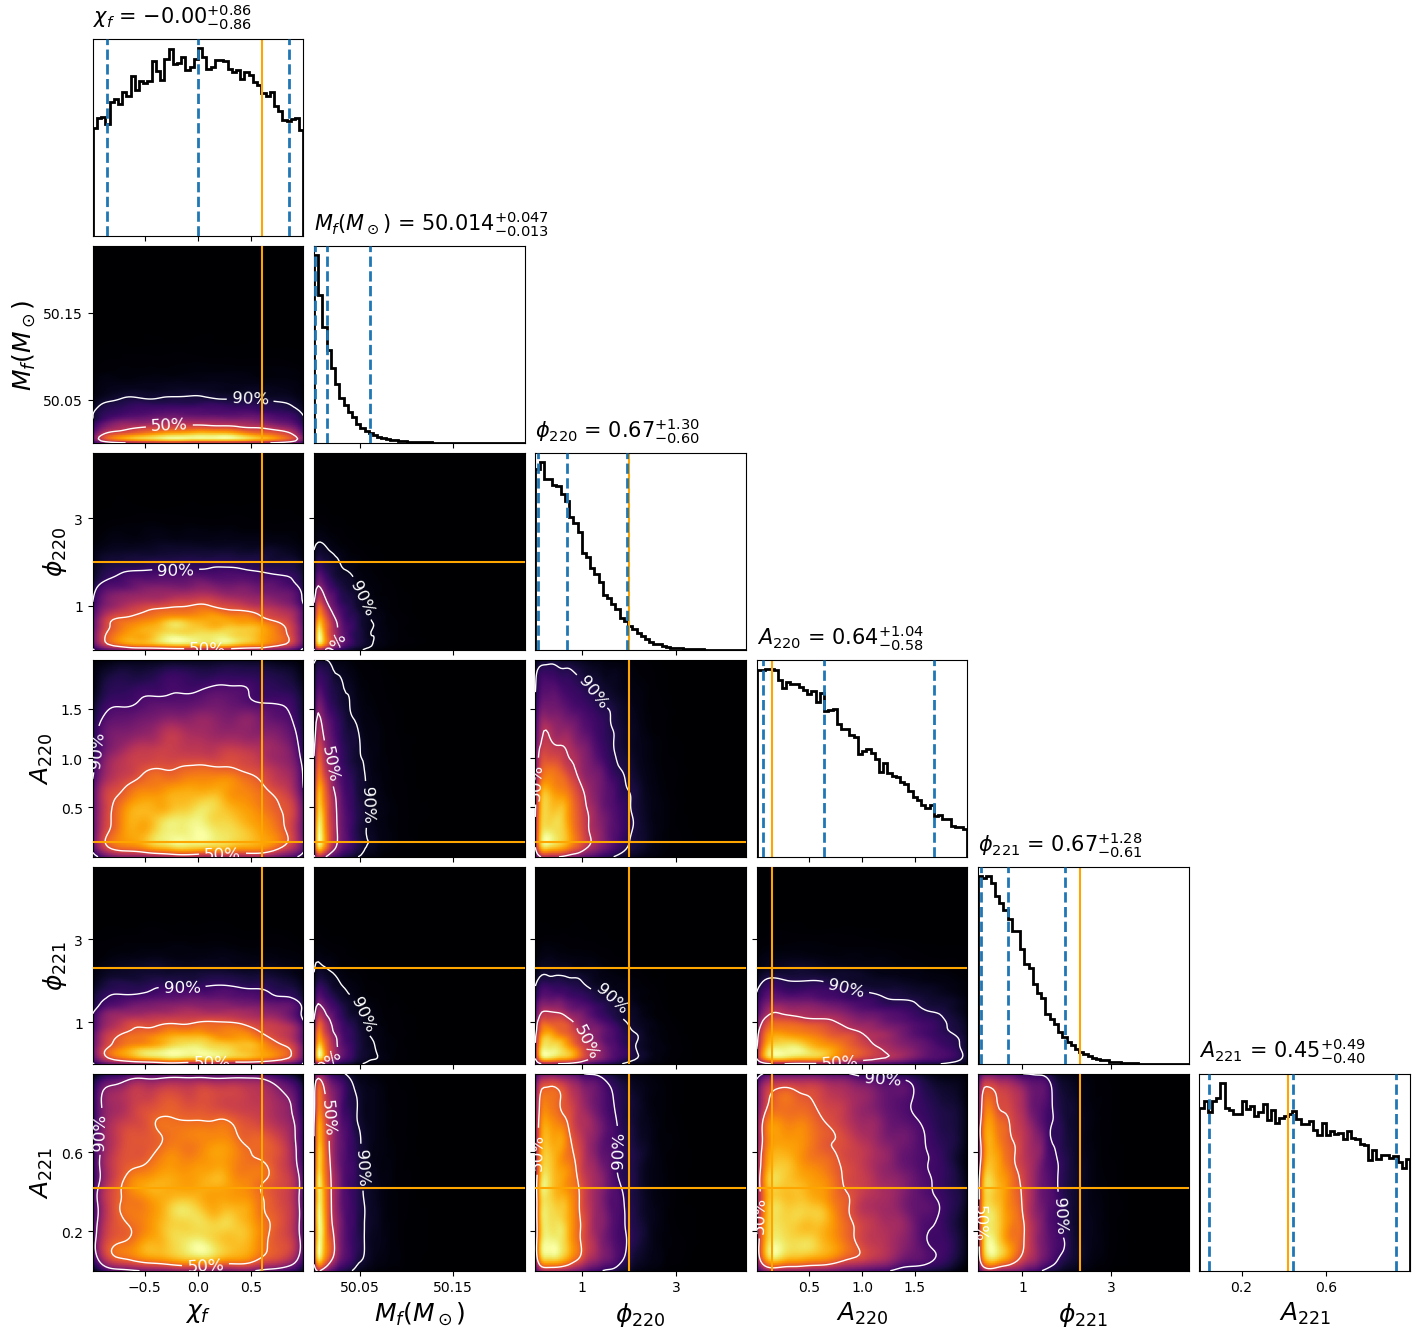
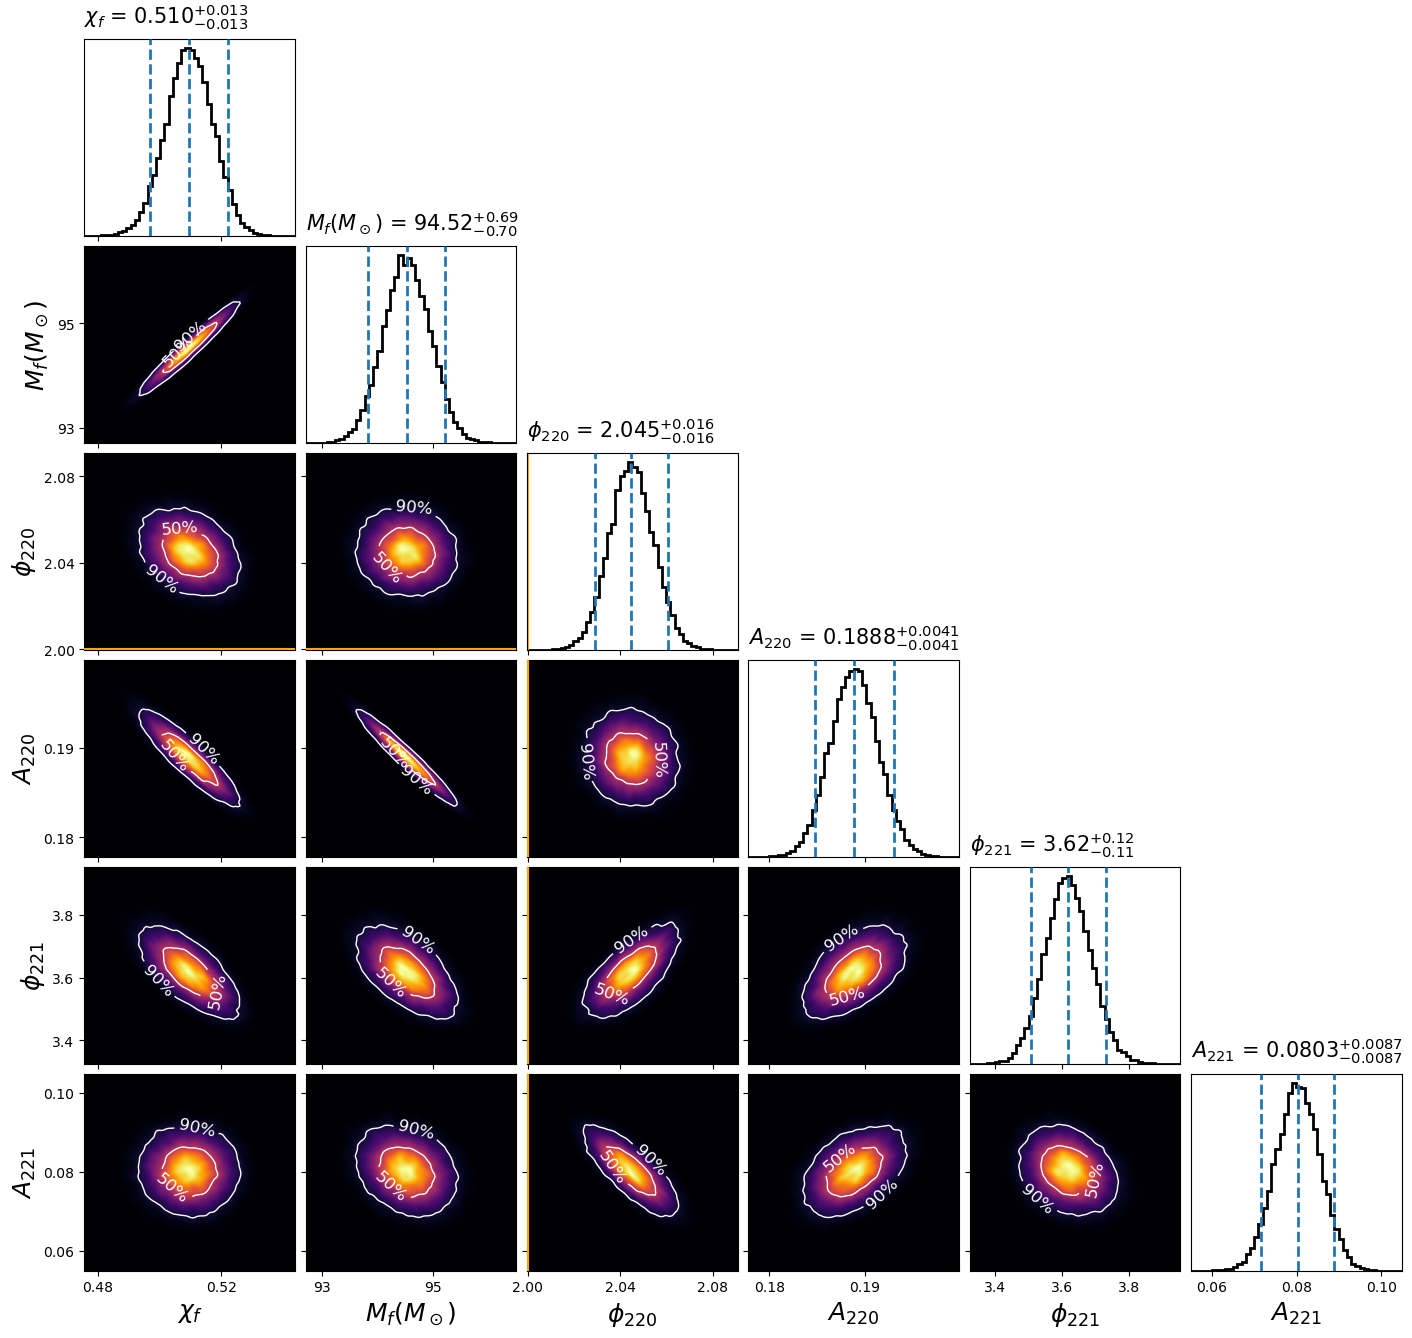
Add files via upload

diff --git a/modified_TdQNMfromMassSpin_waveform_2.py b/modified_TdQNMfromMassSpin_waveform_2.py
@@ -1,0 +1,81 @@
+import numpy as np
+import qnm
+import matplotlib.pyplot as plt
+import pycbc.waveform
+from pycbc.types import TimeSeries
+from pycbc.waveform.ringdown import get_td_from_final_mass_spin as wf0
+from pycbc import conversions as cn
+#import sequence_GW.txt
+#import sequence_scalar.txt
+
+#conversions
+c=2.99792458e8 #m
+G=6.67259e-11 #m^3/(kg*s^2)
+pc=3.0857e16
+Msol=1.9885e30 #kg
+cf=7.4247138240457957979e-28
+
+def f_to_Phys(f,M):
+    """ It converts NR frequencies to physical units in [Hz].
+    """  
+    return (c**3/(M*Msol*G))*f
+
+#--------------------------------MODIFED WAVEFORM--------------------------------#
+
+#save list in cache
+a, re_om, im_om = np.loadtxt("sequence_GW.txt", usecols=(0,1,2), unpack=True)
+a, re_om_s, im_om_s = np.loadtxt("sequence_scalar.txt", usecols=(0,1,2), unpack=True)
+
+def TdQNMfromMassSpin_SD_total(**args):
+    
+    #Required parameters
+    final_mass = args['final_mass']
+    final_spin = args['final_spin']
+    amp220 = args['amp220']
+    amp221 = args['amp221']
+    phi220 = args['phi220']
+    phi221 = args['phi221']
+    distance = args['distance']
+    inclination = args['inclination']
+    #polarization = args['polarization']
+    toffset = args["toffset"]
+    #ra = args['ra']
+    #dec = args['dec']
+    f_ref = args['f_ref']
+    #tc = args["tc"]
+    t_final = args["t_final"]
+    harmonics = args["harmonics"]
+    f_lower = args['f_lower']
+    delta_t = args['delta_t']
+    lmns = args['lmns']
+    
+    #read txt files
+    #a, re_om, im_om = np.loadtxt("sequence_GW.txt", usecols=(0,1,2), unpack=True)
+    #a, re_om_s, im_om_s = np.loadtxt("sequence_scalar.txt", usecols=(0,1,2), unpack=True)
+    
+    #minimum index
+    min_index = np.argmin(np.abs(a - abs(final_spin)))
+
+    #print
+    #print("Nearest value:", a[min_index])
+    #print("Relative index:", min_index)
+    
+    #GW mode
+    f221=f_to_Phys(re_om[min_index],final_mass)/(2*np.pi)
+    tau221=-1/f_to_Phys(im_om[min_index],final_mass)
+    
+    #scalar mode
+    f221_s=f_to_Phys(re_om_s[min_index],final_mass)/(2*np.pi)
+    tau221_s=-1/f_to_Phys(im_om_s[min_index],final_mass)
+    
+    #additional parameters
+    delta_f221=f221_s/f221-1
+    delta_tau221=tau221_s/tau221-1 
+    
+    #print deviations
+    #print("delta_f221: ", delta_f221)
+    #print("delta_tau221: ", delta_tau221)
+    
+    #waveform with 221 mode as 220 scalar
+    hp, hc = wf0(final_mass=final_mass, final_spin=final_spin, amp220=amp220, amp221=amp221, phi220=phi220, phi221=phi221, distance=distance, inclination=inclination, lmns=lmns, f_lower=f_lower, delta_t=delta_t, delta_f221=delta_f221, delta_tau221=delta_tau221, harmonics=harmonics, toffset=toffset, t_final=t_final, f_ref=f_ref)
+    return hp, hc

diff --git a/plot_posterior_11.py b/plot_posterior_11.py
@@ -1,0 +1,37 @@
+import subprocess
+import configparser
+import read_ini_file as r
+
+# Leggi il file .ini e ottieni il dizionario risultante
+file_path = 'injection_11.ini'
+params = r.read_ini_file(file_path)
+
+print(params)
+
+# Costruisci il comando completo
+command = f"""
+    pycbc_inference_plot_posterior --verbose \
+    --input-file samples_11.hdf \
+    --output-file corner_11_s.png \
+    --plot-density --plot-contours --plot-marginal \
+    --density-cmap inferno \
+    --parameters \
+        'final_spin:$\chi_f$' \
+        'final_mass:$M_f (M_\odot)$' \
+        'phi220:$\phi_{{220}}$' \
+        'amp220:$A_{{220}}$' \
+        'phi221:$\phi_{{221}}$' \
+        'amp221:$A_{{221}}$' \
+    --expected-parameters \
+        final_spin:{params["static_params"]["final_spin"]} \
+        final_mass:{params["static_params"]["final_mass"]} \
+        phi220:{params["static_params"]["phi220"]} \
+        amp220:{params["static_params"]["amp220"]} \
+        phi221:{params["static_params"]["phi221"]} \
+        amp221:{params["static_params"]["amp221"]} \
+    --expected-parameters-color ORANGE
+"""
+
+# Esegui il comando
+subprocess.run(command, shell=True)
+
